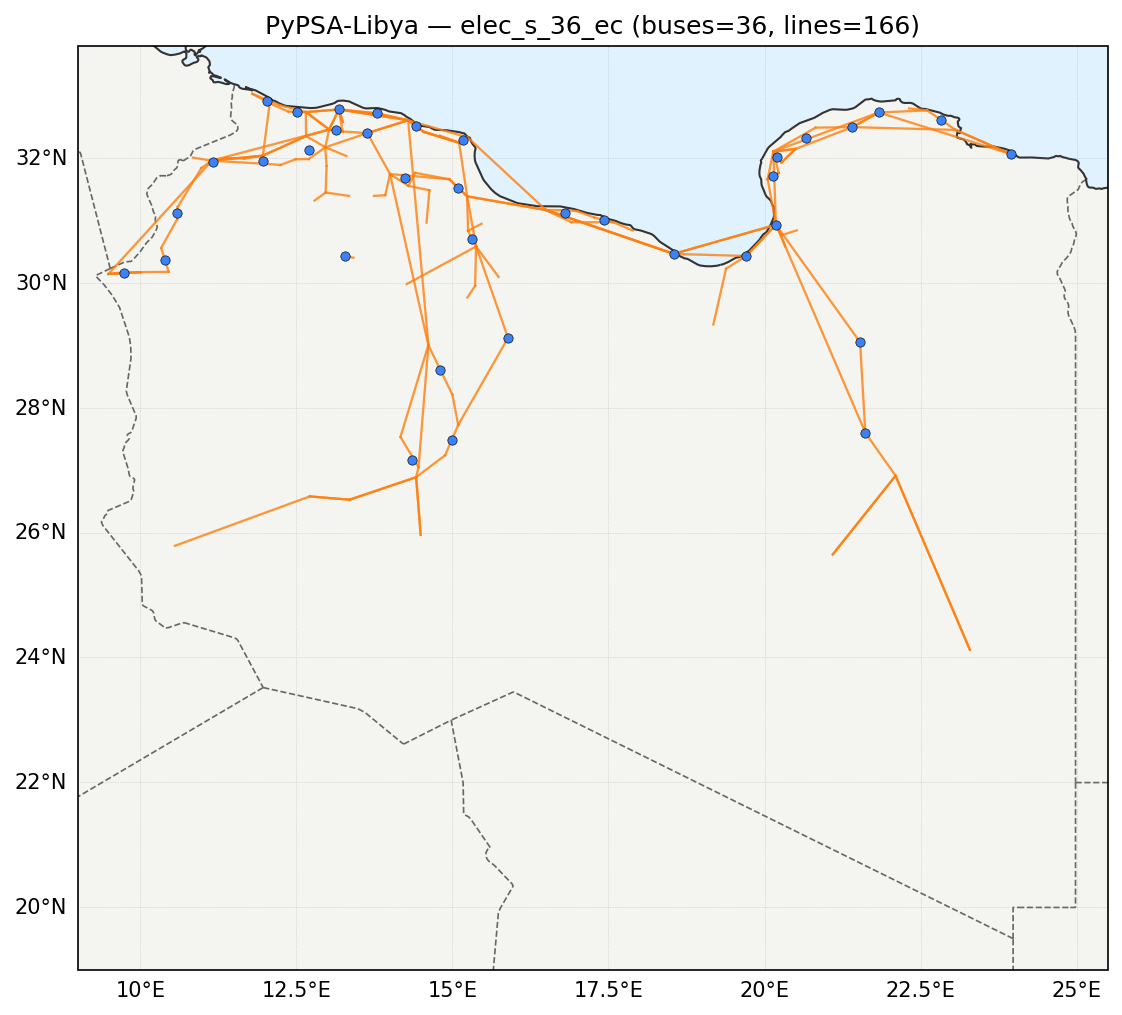
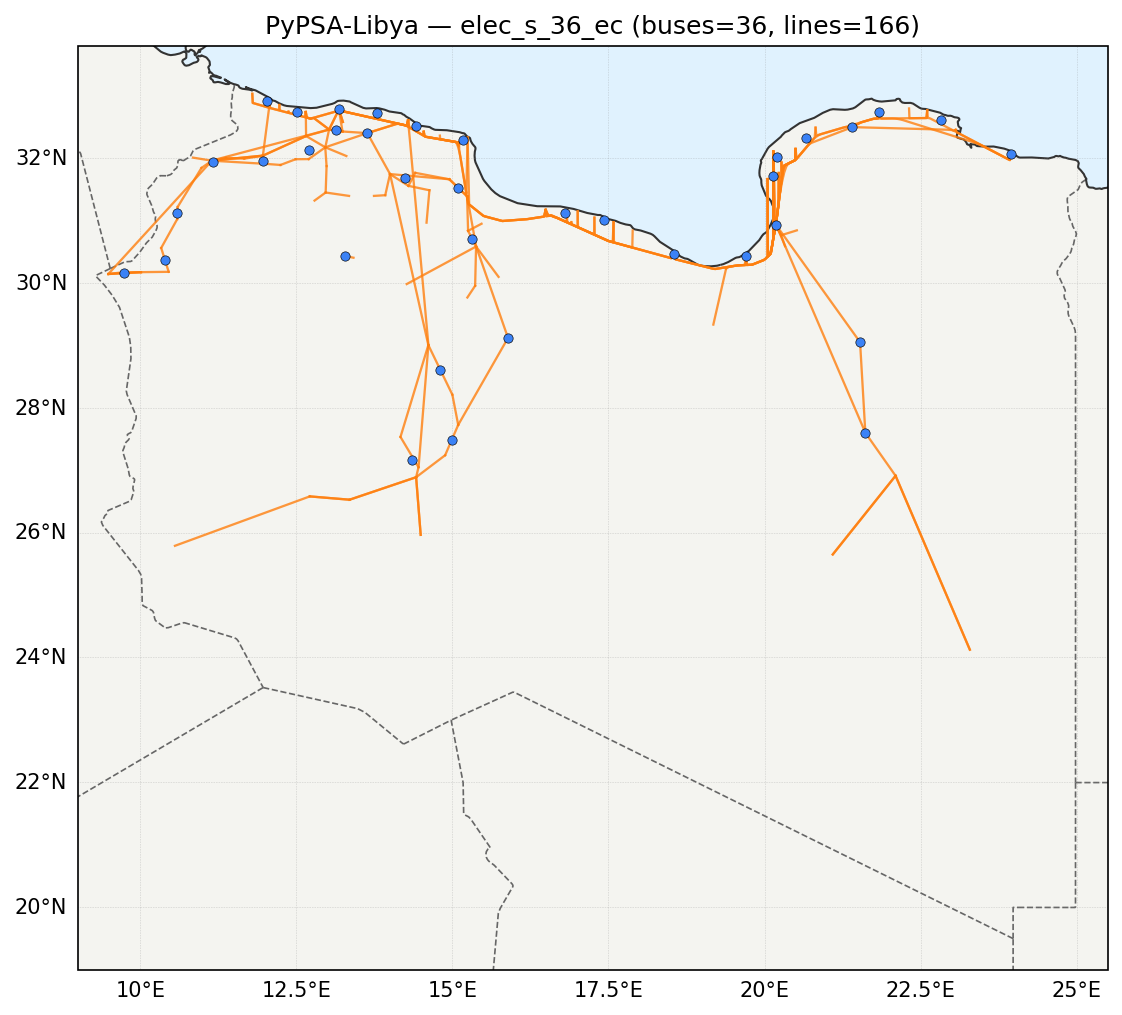
Add files via upload

diff --git a/Output/libya-year-36clusters/LCO2/3h/visualize_libya_year.py b/Output/libya-year-36clusters/LCO2/3h/visualize_libya_year.py
@@ -19,21 +19,16 @@ import matplotlib.cm as cm
 import matplotlib.colors as mcolors
 from matplotlib.lines import Line2D
 
-# Cartopy import for geographic basemaps
-try:
-    import cartopy.crs as ccrs
-    import cartopy.feature as cfeature
-    HAS_CARTOPY = True
-except ImportError:
-    HAS_CARTOPY = False
-    print("Warning: cartopy not found. Falling back to simple coordinate plotting.")
 
 # =====================================================================
-# CONFIGURATION
+# RUN CONFIGURATION
 # =====================================================================
 
 CLUSTERS = 36  
-HOURS = 6
+
+# HOURS = 6
+HOURS = 3
+
 USE_CCL = False
 
 RUN_NAME_BY_CLUSTERS = {
@@ -47,6 +42,89 @@ RUN_NAME = RUN_NAME_BY_CLUSTERS.get(CLUSTERS, f"libya-year-{CLUSTERS}clusters")
 ccl_suffix = "_CCL" if USE_CCL else ""
 OUT_DIR = os.path.join("viz_outputs", f"libya-year-{CLUSTERS}clusters-{HOURS}h{ccl_suffix}")
 os.makedirs(OUT_DIR, exist_ok=True)
+
+
+
+# Cartopy import for geographic basemaps
+try:
+    import cartopy.crs as ccrs
+    import cartopy.feature as cfeature
+    HAS_CARTOPY = True
+except ImportError:
+    HAS_CARTOPY = False
+    print("Warning: cartopy not found. Falling back to simple coordinate plotting.")
+
+# =====================================================================
+# COASTAL LINE ROUTING CONFIGURATION (LIBYA LAND BOUNDARY)
+# =====================================================================
+
+COAST_LONS = np.array([
+    9.0, 11.5, 12.08, 12.73, 13.19, 14.26, 14.57, 15.09, 
+    15.25, 15.50, 15.80, 16.20, 16.59, 17.50, 18.56, 19.20,
+    19.57, 19.80, 20.00, 20.10, 20.20, 20.30, 20.50, 20.83, 
+    21.75, 22.64, 23.96, 25.09, 26.0
+])
+
+COAST_LATS = np.array([
+    33.0, 33.1, 32.93, 32.76, 32.89, 32.65, 32.47, 32.38, 
+    31.40, 31.20, 31.12, 31.15, 31.21, 30.80, 30.51, 30.35,
+    30.41, 30.42, 30.50, 30.60, 31.20, 32.00, 32.10, 32.49, 
+    32.76, 32.77, 32.08, 31.76, 31.50
+])
+
+def get_coast_lat(lon):
+    """Returns the latitude of the Libyan coastline at a given longitude."""
+    return np.interp(lon, COAST_LONS, COAST_LATS)
+
+def route_line_land(x0, y0, x1, y1, land_offset=0.13, num_pts=50, allow_waypoint=True):
+    """
+    Routes transmission lines safely on land following coastal contours if 
+    a straight Euclidean segment crosses water. Inland lines remain straight.
+    """
+    if x0 == x1 or (abs(x0 - x1) < 1e-5 and abs(y0 - y1) < 1e-5):
+        return [x0, x1], [y0, y1]
+
+    # Special waypoint routing for the Gulf of Sirte corner (Brega/Ajdabiya to Benghazi corridor)
+    # where lines connect southwest (lon < 20.15, lat < 30.8) to north (lon 19.8-20.4, lat > 31.3)
+    min_x, max_x = min(x0, x1), max(x0, x1)
+    min_y, max_y = min(y0, y1), max(y0, y1)
+
+    is_region2_crossing = (
+        (min_x < 20.15 and max_x > 19.8) and
+        (min_y < 30.8 and max_y > 31.3)
+    )
+
+    if is_region2_crossing and allow_waypoint:
+        x_mid, y_mid = 20.32, 30.70  # Inland waypoint east of Ajdabiya
+        xs1, ys1 = route_line_land(x0, y0, x_mid, y_mid, land_offset=land_offset, num_pts=num_pts//2, allow_waypoint=False)
+        xs2, ys2 = route_line_land(x_mid, y_mid, x1, y1, land_offset=land_offset, num_pts=num_pts//2, allow_waypoint=False)
+        return np.concatenate([xs1, xs2]), np.concatenate([ys1, ys2])
+
+    xs = np.linspace(x0, x1, num_pts)
+    ys_linear = np.linspace(y0, y1, num_pts)
+    coast_lats = get_coast_lat(xs) - land_offset
+    
+    # Clamp y-coordinates to stay on land (south of coastal water)
+    ys_land = np.minimum(ys_linear, coast_lats)
+    ys_land[0] = y0
+    ys_land[-1] = y1
+    
+    # Smooth line path if it was adjusted landward
+    if num_pts > 5 and np.any(ys_linear > coast_lats):
+        kernel_size = 5
+        kernel = np.ones(kernel_size) / kernel_size
+        ys_smooth = np.convolve(ys_land, kernel, mode='same')
+        ys_smooth[0] = y0
+        ys_smooth[1] = ys_land[1]
+        ys_smooth[-2] = ys_land[-2]
+        ys_smooth[-1] = y1
+        ys_land = np.minimum(ys_smooth, coast_lats)
+        ys_land[0] = y0
+        ys_land[-1] = y1
+
+    return xs, ys_land
+
+
 
 print("=" * 70)
 print(f"RUN CONFIGURATION: Clusters={CLUSTERS}, Resolution={HOURS}h, USE_CCL={USE_CCL}")
@@ -220,7 +298,8 @@ def draw_base_lines(base_network, ax, color="tab:orange", alpha=0.75, linewidth=
         x0, y0 = find_bus_coords(base_network, row.bus0)
         x1, y1 = find_bus_coords(base_network, row.bus1)
         if x0 is not None and x1 is not None and (x0 != x1 or y0 != y1):
-            ax.plot([x0, x1], [y0, y1], c=color, lw=linewidth, alpha=alpha, zorder=2)
+            xs, ys = route_line_land(x0, y0, x1, y1)
+            ax.plot(xs, ys, c=color, lw=linewidth, alpha=alpha, zorder=2)
             lines_drawn += 1
     return lines_drawn
 
@@ -439,7 +518,7 @@ else:
 
 active_carriers = [c for c in colors.keys() if c in total_dispatch.columns and total_dispatch[c].sum() > 1e-3]
 
-# Annual Time Series Area Plot (Fixed using matplotlib stackplot for explicit color assignment)
+# Annual Time Series Area Plot
 if active_carriers:
     fig, ax = plt.subplots(figsize=(14, 6))
     
@@ -805,7 +884,8 @@ for idx, row in n.lines.iterrows():
         val = metric_series.get(idx, 0.0)
         line_color = cmap_lines(norm_metric(val)) if val > (min_val + 0.05 * (max_val - min_val)) else "#a1a1aa"
         linewidth = 1.0 + 3.0 * norm_metric(val)
-        ax.plot([x0, x1], [y0, y1], color=line_color, lw=linewidth, zorder=3, alpha=0.85)
+        xs, ys = route_line_land(x0, y0, x1, y1)
+        ax.plot(xs, ys, color=line_color, lw=linewidth, zorder=3, alpha=0.85)
 
 top_10_lines = metric_series.head(10)
 line_offsets = [
@@ -820,8 +900,10 @@ for i, idx in enumerate(top_10_lines.index):
         x0, y0 = find_bus_coords(n, row.bus0)
         x1, y1 = find_bus_coords(n, row.bus1)
         if x0 is not None and x1 is not None:
-            mid_x = (x0 + x1) / 2.0
-            mid_y = (y0 + y1) / 2.0
+            xs, ys = route_line_land(x0, y0, x1, y1)
+            mid_idx = len(xs) // 2
+            mid_x = xs[mid_idx]
+            mid_y = ys[mid_idx]
             
             raw_offset = line_offsets[i % len(line_offsets)]
             safe_offset = get_safe_offset(mid_x, mid_y, raw_offset)

diff --git a/Output/libya-year-36clusters/LCO2/6h/visualize_libya_year.py b/Output/libya-year-36clusters/LCO2/6h/visualize_libya_year.py
@@ -19,21 +19,16 @@ import matplotlib.cm as cm
 import matplotlib.colors as mcolors
 from matplotlib.lines import Line2D
 
-# Cartopy import for geographic basemaps
-try:
-    import cartopy.crs as ccrs
-    import cartopy.feature as cfeature
-    HAS_CARTOPY = True
-except ImportError:
-    HAS_CARTOPY = False
-    print("Warning: cartopy not found. Falling back to simple coordinate plotting.")
 
 # =====================================================================
-# CONFIGURATION
+# RUN CONFIGURATION
 # =====================================================================
 
 CLUSTERS = 36  
+
 HOURS = 6
+# HOURS = 3
+
 USE_CCL = False
 
 RUN_NAME_BY_CLUSTERS = {
@@ -47,6 +42,89 @@ RUN_NAME = RUN_NAME_BY_CLUSTERS.get(CLUSTERS, f"libya-year-{CLUSTERS}clusters")
 ccl_suffix = "_CCL" if USE_CCL else ""
 OUT_DIR = os.path.join("viz_outputs", f"libya-year-{CLUSTERS}clusters-{HOURS}h{ccl_suffix}")
 os.makedirs(OUT_DIR, exist_ok=True)
+
+
+
+# Cartopy import for geographic basemaps
+try:
+    import cartopy.crs as ccrs
+    import cartopy.feature as cfeature
+    HAS_CARTOPY = True
+except ImportError:
+    HAS_CARTOPY = False
+    print("Warning: cartopy not found. Falling back to simple coordinate plotting.")
+
+# =====================================================================
+# COASTAL LINE ROUTING CONFIGURATION (LIBYA LAND BOUNDARY)
+# =====================================================================
+
+COAST_LONS = np.array([
+    9.0, 11.5, 12.08, 12.73, 13.19, 14.26, 14.57, 15.09, 
+    15.25, 15.50, 15.80, 16.20, 16.59, 17.50, 18.56, 19.20,
+    19.57, 19.80, 20.00, 20.10, 20.20, 20.30, 20.50, 20.83, 
+    21.75, 22.64, 23.96, 25.09, 26.0
+])
+
+COAST_LATS = np.array([
+    33.0, 33.1, 32.93, 32.76, 32.89, 32.65, 32.47, 32.38, 
+    31.40, 31.20, 31.12, 31.15, 31.21, 30.80, 30.51, 30.35,
+    30.41, 30.42, 30.50, 30.60, 31.20, 32.00, 32.10, 32.49, 
+    32.76, 32.77, 32.08, 31.76, 31.50
+])
+
+def get_coast_lat(lon):
+    """Returns the latitude of the Libyan coastline at a given longitude."""
+    return np.interp(lon, COAST_LONS, COAST_LATS)
+
+def route_line_land(x0, y0, x1, y1, land_offset=0.13, num_pts=50, allow_waypoint=True):
+    """
+    Routes transmission lines safely on land following coastal contours if 
+    a straight Euclidean segment crosses water. Inland lines remain straight.
+    """
+    if x0 == x1 or (abs(x0 - x1) < 1e-5 and abs(y0 - y1) < 1e-5):
+        return [x0, x1], [y0, y1]
+
+    # Special waypoint routing for the Gulf of Sirte corner (Brega/Ajdabiya to Benghazi corridor)
+    # where lines connect southwest (lon < 20.15, lat < 30.8) to north (lon 19.8-20.4, lat > 31.3)
+    min_x, max_x = min(x0, x1), max(x0, x1)
+    min_y, max_y = min(y0, y1), max(y0, y1)
+
+    is_region2_crossing = (
+        (min_x < 20.15 and max_x > 19.8) and
+        (min_y < 30.8 and max_y > 31.3)
+    )
+
+    if is_region2_crossing and allow_waypoint:
+        x_mid, y_mid = 20.32, 30.70  # Inland waypoint east of Ajdabiya
+        xs1, ys1 = route_line_land(x0, y0, x_mid, y_mid, land_offset=land_offset, num_pts=num_pts//2, allow_waypoint=False)
+        xs2, ys2 = route_line_land(x_mid, y_mid, x1, y1, land_offset=land_offset, num_pts=num_pts//2, allow_waypoint=False)
+        return np.concatenate([xs1, xs2]), np.concatenate([ys1, ys2])
+
+    xs = np.linspace(x0, x1, num_pts)
+    ys_linear = np.linspace(y0, y1, num_pts)
+    coast_lats = get_coast_lat(xs) - land_offset
+    
+    # Clamp y-coordinates to stay on land (south of coastal water)
+    ys_land = np.minimum(ys_linear, coast_lats)
+    ys_land[0] = y0
+    ys_land[-1] = y1
+    
+    # Smooth line path if it was adjusted landward
+    if num_pts > 5 and np.any(ys_linear > coast_lats):
+        kernel_size = 5
+        kernel = np.ones(kernel_size) / kernel_size
+        ys_smooth = np.convolve(ys_land, kernel, mode='same')
+        ys_smooth[0] = y0
+        ys_smooth[1] = ys_land[1]
+        ys_smooth[-2] = ys_land[-2]
+        ys_smooth[-1] = y1
+        ys_land = np.minimum(ys_smooth, coast_lats)
+        ys_land[0] = y0
+        ys_land[-1] = y1
+
+    return xs, ys_land
+
+
 
 print("=" * 70)
 print(f"RUN CONFIGURATION: Clusters={CLUSTERS}, Resolution={HOURS}h, USE_CCL={USE_CCL}")
@@ -220,7 +298,8 @@ def draw_base_lines(base_network, ax, color="tab:orange", alpha=0.75, linewidth=
         x0, y0 = find_bus_coords(base_network, row.bus0)
         x1, y1 = find_bus_coords(base_network, row.bus1)
         if x0 is not None and x1 is not None and (x0 != x1 or y0 != y1):
-            ax.plot([x0, x1], [y0, y1], c=color, lw=linewidth, alpha=alpha, zorder=2)
+            xs, ys = route_line_land(x0, y0, x1, y1)
+            ax.plot(xs, ys, c=color, lw=linewidth, alpha=alpha, zorder=2)
             lines_drawn += 1
     return lines_drawn
 
@@ -439,7 +518,7 @@ else:
 
 active_carriers = [c for c in colors.keys() if c in total_dispatch.columns and total_dispatch[c].sum() > 1e-3]
 
-# Annual Time Series Area Plot (Fixed using matplotlib stackplot for explicit color assignment)
+# Annual Time Series Area Plot
 if active_carriers:
     fig, ax = plt.subplots(figsize=(14, 6))
     
@@ -805,7 +884,8 @@ for idx, row in n.lines.iterrows():
         val = metric_series.get(idx, 0.0)
         line_color = cmap_lines(norm_metric(val)) if val > (min_val + 0.05 * (max_val - min_val)) else "#a1a1aa"
         linewidth = 1.0 + 3.0 * norm_metric(val)
-        ax.plot([x0, x1], [y0, y1], color=line_color, lw=linewidth, zorder=3, alpha=0.85)
+        xs, ys = route_line_land(x0, y0, x1, y1)
+        ax.plot(xs, ys, color=line_color, lw=linewidth, zorder=3, alpha=0.85)
 
 top_10_lines = metric_series.head(10)
 line_offsets = [
@@ -820,8 +900,10 @@ for i, idx in enumerate(top_10_lines.index):
         x0, y0 = find_bus_coords(n, row.bus0)
         x1, y1 = find_bus_coords(n, row.bus1)
         if x0 is not None and x1 is not None:
-            mid_x = (x0 + x1) / 2.0
-            mid_y = (y0 + y1) / 2.0
+            xs, ys = route_line_land(x0, y0, x1, y1)
+            mid_idx = len(xs) // 2
+            mid_x = xs[mid_idx]
+            mid_y = ys[mid_idx]
             
             raw_offset = line_offsets[i % len(line_offsets)]
             safe_offset = get_safe_offset(mid_x, mid_y, raw_offset)
